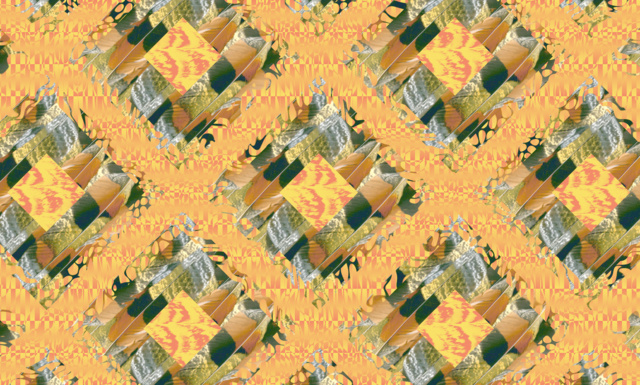
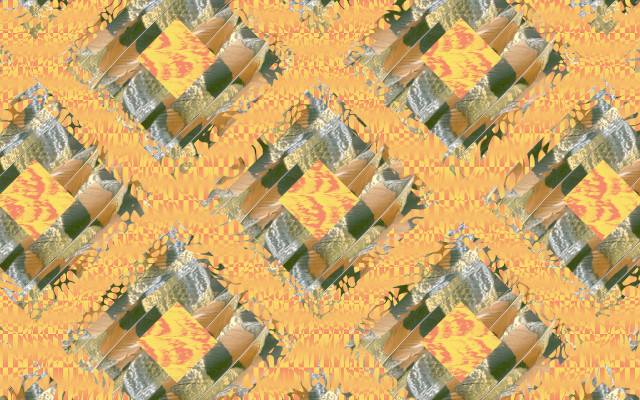
fix images

diff --git a/index.html b/index.html
@@ -10,16 +10,16 @@ layout: home
     {% include img-jpg.html pngName="1422" assetPath="/assets/media/altomare/"  gridClass = "grid l2 video-animations" %}
   </a>
 
+  <!-- Talk to strangers-->
+  <a href="/projects/talk-to-strangers">
+    {% include img-jpg.html pngName="raggio15" assetPath="/assets/media/talk-to-strangers/" gridClass = "grid still-images"%}
+  </a>
 
   <!-- Pattern # 1-->
   <a href="/projects/pattern-n1-appunti-su-piuma">
-    {% include img-jpg.html pngName="rombi1" assetPath="/assets/media/pattern1-appunti-su-piuma/" gridClass = "grid l2 web-animations" %}
+    {% include img-jpg.html pngName="rombi6" assetPath="/assets/media/pattern1-appunti-su-piuma/" gridClass = "grid web-animations" %}
   </a>
 
-    <!-- Talk to strangers-->
-    <a href="/projects/talk-to-strangers">
-      {% include img-jpg.html pngName="raggio15" assetPath="/assets/media/talk-to-strangers/" gridClass = "grid still-images"%}
-    </a>
 
   <!-- Pattern # 2-->
   <a href="/projects/pattern-n2-sampling-argusianus-argus">
@@ -30,7 +30,6 @@ layout: home
   <a href="/projects/sampling-ocellated-turkey">
     {% include img-jpg.html pngName="1" assetPath="/assets/media/sampling-ocellated-turkey/" gridClass = "grid video-animations" %}
   </a>
-
 
 
   <!--Flipping parrots -->
@@ -60,12 +59,12 @@ layout: home
     {% include img-jpg.html pngName="budgerigar" assetPath="/assets/media/less-than-a-flower-more-than-a-bird/" gridClass = "grid grid-sizer web-animations" %}
   </a>
 
-  <!-- I am Mensch visuals -->
+  <!-- I am Mensch visuals
   <a href="/projects/i-am-mensch-visuals">
     {% include img-jpg.html pngName="fischers" assetPath="/assets/media/i-am-mensch/"  gridClass = "grid video-animations" %}
   </a>
 
-  <!-- Palms Generator -->
+   Palms Generator 
   <a href="/projects/palm-generator">
     <img class="grid web-animations" srcset="assets/media/palm-generator/palm-generator-small.png 640w,
   assets/media/palm-generator/palm-generator-medium.png 1280w,
@@ -73,12 +72,11 @@ layout: home
   assets/media/palm-generator/palm-generator.png 2600w" sizes="(max-width: 600px) 96vw, 66.333vw">
   </a>
 
-  <!-- Ausser Betrieb visuals -->
+  Ausser Betrieb visuals 
   <a href="/projects/ausser-betrieb">
     {% include img-jpg.html pngName="7" assetPath="/assets/media/ausser-betrieb/" gridClass = "grid video-animations" %}
   </a>
 
-  <!--
   <a href = "/projects/3dprinted-flowers">
     <img class="grid" srcset =
     "assets/media/3dprinted-flowers/cover.png 640w,

diff --git a/about.html b/about.html
@@ -21,7 +21,7 @@ layout: default
                     Davide Prati was born in 1983 in Italy, and lives in Berlin, where he is lecturing (part-time) at
                     Universität der Kunste.
                     Since 2019 he is a member of the <a href="http://uferhallen-ev.de/">Uferhallen Verein</a>, Berlin.
-                    He is one of the founding member of the <a href="https://iocose.org" target="_blank">IOCOSE</a> art collective.
+                    <!-- He is one of the founding member of the <a href="https://iocose.org" target="_blank">IOCOSE</a> art collective. -->
                 </p>
             </div>
         </div>

diff --git a/_layouts/home.html b/_layouts/home.html
@@ -24,8 +24,8 @@
       </div>
       <div class="button-group filters-button-group">
         <button class="button is-checked" data-filter="*">All</button>
-        <button class="button" data-filter=".web-animations">Web Animations</button>
         <button class="button" data-filter=".video-animations">Video Animations</button>
+        <button class="button" data-filter=".web-animations">Web Animations</button>
         <button class="button" data-filter=".still-images">Still Images</button>
       </div>
 

diff --git a/_includes/footer.html b/_includes/footer.html
@@ -55,8 +55,10 @@
 
       // filter functions
       let filterFns = {};
+
       // bind filter button click
       let filtersElem = document.querySelector('.filters-button-group');
+
       if (filtersElem) {
         filtersElem.addEventListener( 'click', function( event ) {
           // only work with buttons
